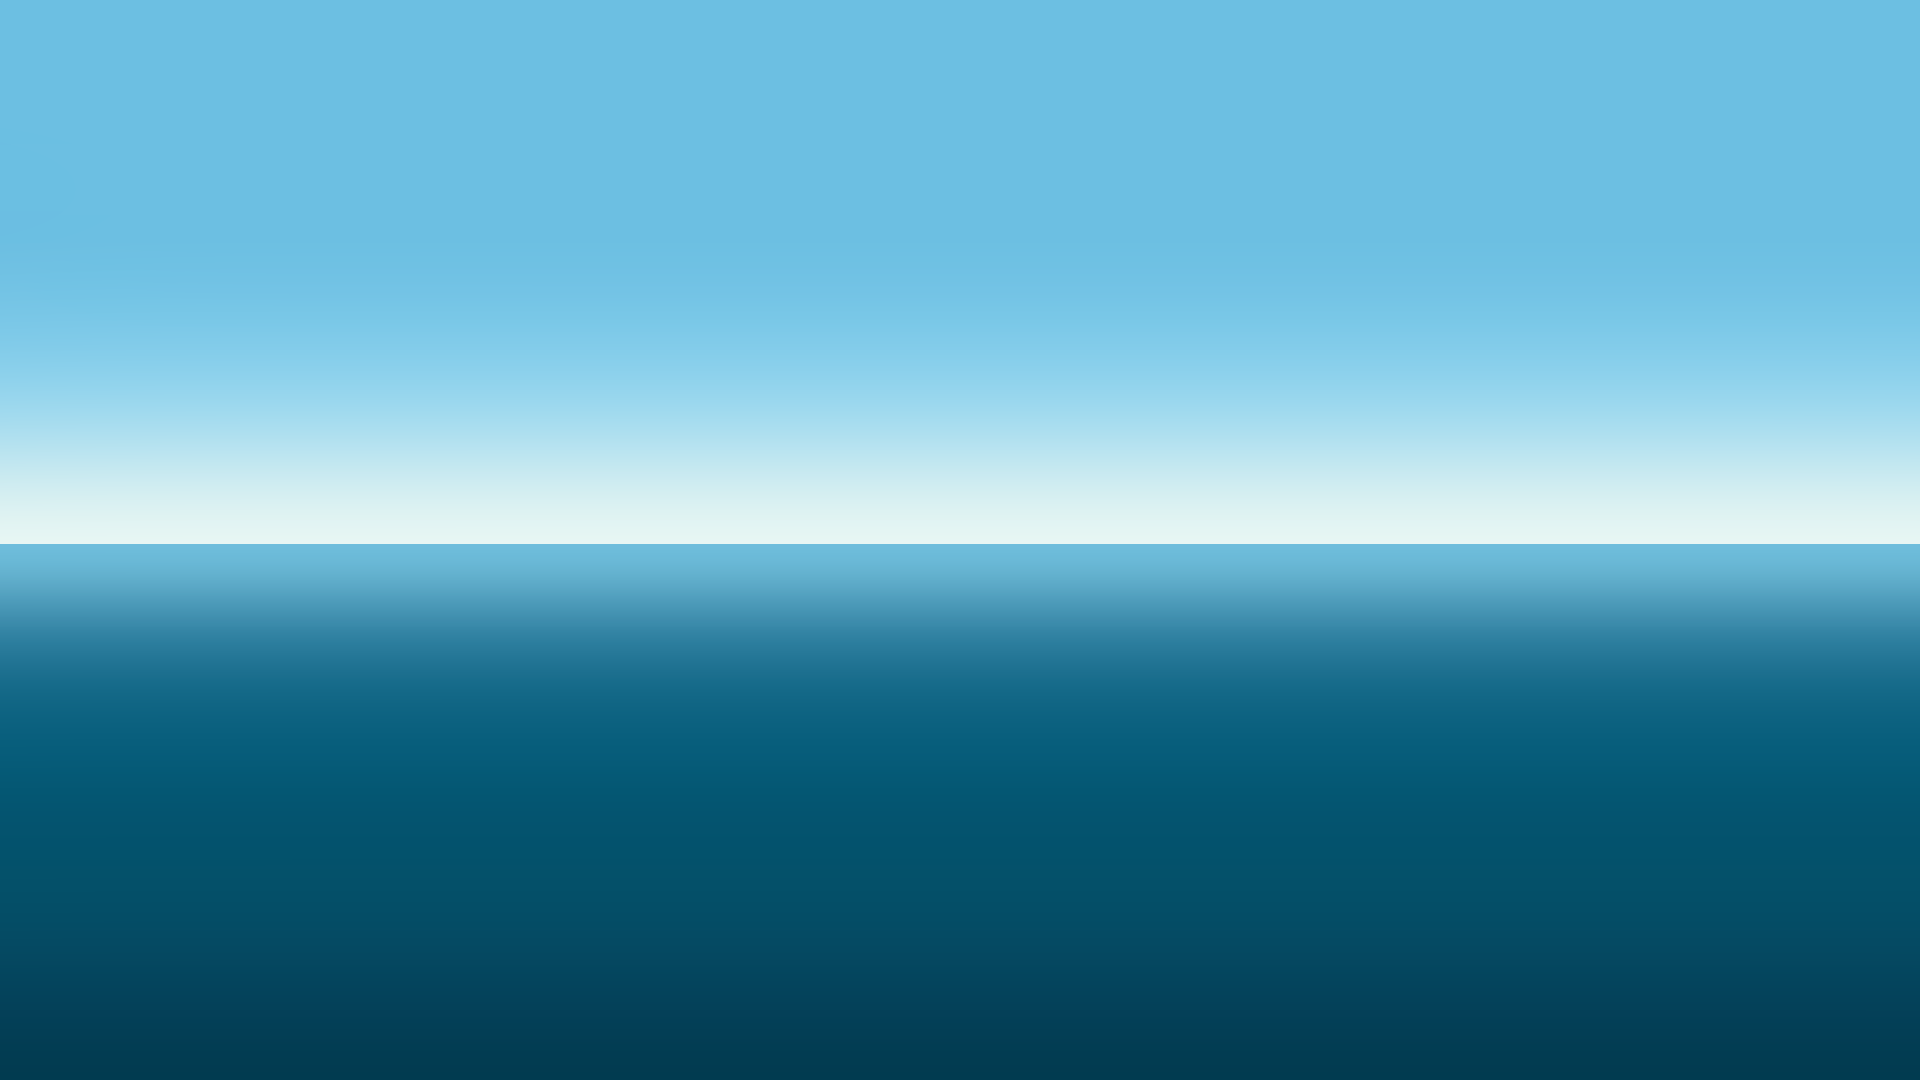
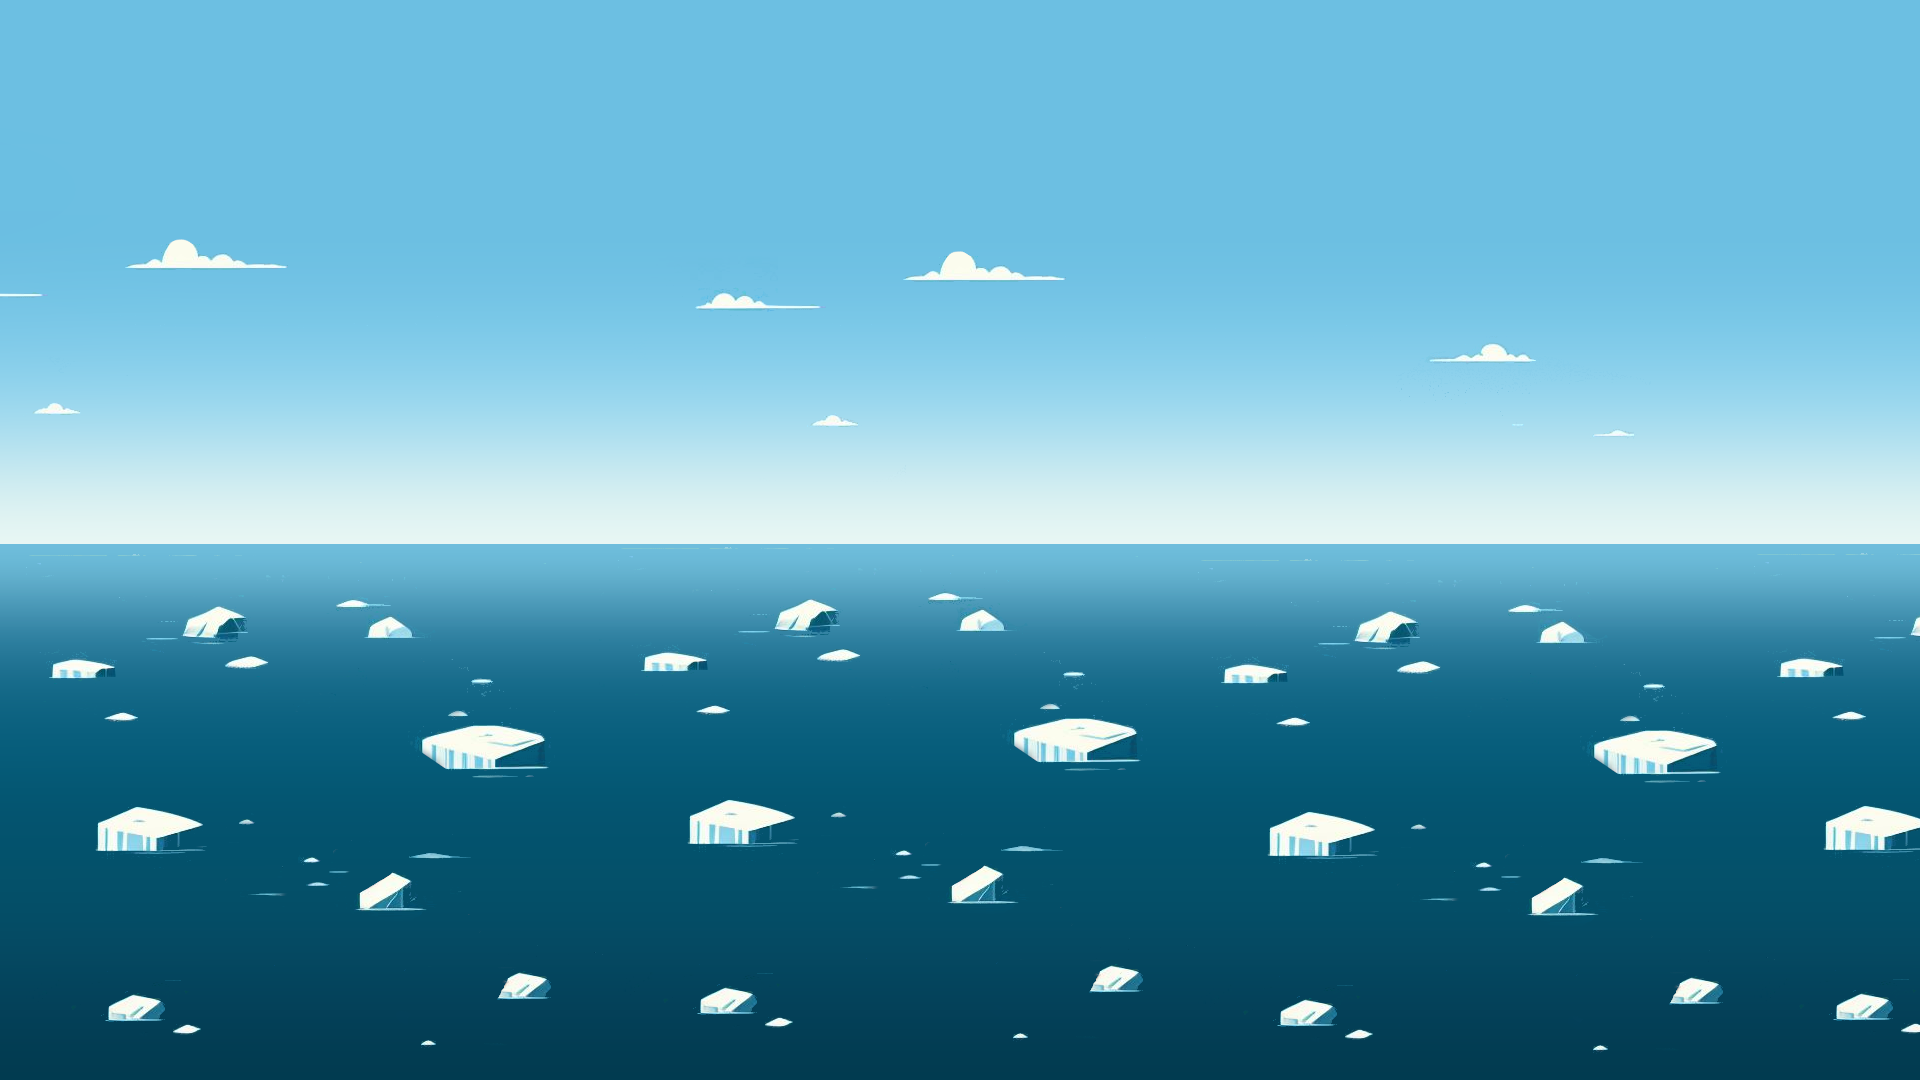
Add background, make world larger, add balloons

diff --git a/frontend/scripts/world.js b/frontend/scripts/world.js
@@ -1,5 +1,8 @@
 Bones.World = {
     init() {
+        this.width = 1920
+        this.height = 1080
+
         this.Physics = new Object()
         this.Physics.matterjs_engine = Matter.Engine.create();
         this.Physics.matterjs_world = this.Physics.matterjs_engine.world;
@@ -27,15 +30,17 @@ Bones.World = {
         //this.create_box_prop(400, 200, 80, 80)
         //this.create_box_prop(450, 50, 80, 20)
 
-        this.create_box_prop(Bones.Renderer.width / 2, -500, Bones.Renderer.width + 1000, 1000, anchored=true)
-        this.create_box_prop(Bones.Renderer.width / 2, Bones.Renderer.height + 500, Bones.Renderer.width + 1000, 1000, anchored=true)
-        this.create_box_prop(-500, Bones.Renderer.height / 2, 1000, Bones.Renderer.height + 1000, anchored=true)
-        this.create_box_prop(Bones.Renderer.width + 500, Bones.Renderer.height / 2, 1000, Bones.Renderer.height + 1000, anchored=true)
+        this.create_box_prop(1920 / 2, -500, 1920 + 1000, 1000, anchored=true)
+        this.create_box_prop(1920 / 2, 1080 + 500, 1920 + 1000, 1000, anchored=true)
+        this.create_box_prop(-500, 1080 / 2, 1000, 1080 + 1000, anchored=true)
+        this.create_box_prop(1920 + 500, 1080 / 2, 1000, 1080 + 1000, anchored=true)
 
         //npc init
 
         this.npcs = []
-        this.npcs.push(new this.NPC())
+        for (let i = 0; i < 20; i++) {
+            this.npcs.push(new this.NPC())
+        }
 
 
     }, // END FUNCTION init
@@ -50,8 +55,26 @@ Bones.World = {
         }
     },
     tick() {
+        let client_player = this.players[netplay_welcome_message] 
+        Bones.Renderer.camera_x = (client_player.x + client_player.width / 2 - Bones.Renderer.width / 2 + Bones.Renderer.camera_x * 19) / 20
+        Bones.Renderer.camera_y = (client_player.y + client_player.height / 2 - Bones.Renderer.height / 2 + Bones.Renderer.camera_y * 19) / 20
+        if (Bones.Renderer.camera_x > this.width - Bones.Renderer.width) {
+            Bones.Renderer.camera_x = this.width - Bones.Renderer.width
+        }
+        if (Bones.Renderer.camera_x < 0) {
+            Bones.Renderer.camera_x = 0
+        }
+        if (Bones.Renderer.camera_y > this.height - Bones.Renderer.height) {
+            Bones.Renderer.camera_y = this.height - Bones.Renderer.height
+        }
+        if (Bones.Renderer.camera_y < 0) {
+            Bones.Renderer.camera_y = 0
+        }
+
+        Bones.Renderer.context.drawImage(Bones.Assets.gfx_ice_background, -Bones.Renderer.camera_x, -Bones.Renderer.camera_y, 1920, 1080)
+
         Bones.Renderer.context.font = "18px Monospace";
-        Bones.Renderer.context.fillStyle = "Gray";
+        Bones.Renderer.context.fillStyle = "Black";
         Bones.Renderer.context.textAlign = "center";
         Bones.Renderer.context.fillText("Bones \"Alpha\" v0.0.9 - user id: " + netplay_welcome_message + ' - user is host: ' + netplay_user_is_host, Bones.Renderer.canvas.width / 2, 20)
 
@@ -384,6 +407,8 @@ Bones.Renderer.context.font = "18px Monospace";
             this.movement_speed = 1;
             this.x = 25;
             this.y = 0;
+            this.width = 150;
+            this.height = 150;
             this.x_vel = 0;
             this.y_vel = 0;
             this.max_x_vel = 7
@@ -516,8 +541,8 @@ Bones.Renderer.context.font = "18px Monospace";
                 this.x = 0
                 this.x_vel = 0
             }
-            if (this.x > Bones.Renderer.width - 150) {
-                this.x = Bones.Renderer.width - 150
+            if (this.x > Bones.World.width - 150) {
+                this.x = Bones.World.width - 150
                 this.x_vel = 0
             }
             if (this.y < 0) {
@@ -527,8 +552,8 @@ Bones.Renderer.context.font = "18px Monospace";
                     this.y_vel = 0
                 }
             }
-            if (this.y > Bones.Renderer.height - 150) {
-                this.y = Bones.Renderer.height - 150
+            if (this.y > Bones.World.height - 150) {
+                this.y = Bones.World.height - 150
                 this.y_vel = 0
                 this.on_ground = true
             }

diff --git a/frontend/scripts/assets.js b/frontend/scripts/assets.js
@@ -1,12 +1,28 @@
 Bones.Assets = {
     init: function(){
         this.gfx_player = new Image();
-        this.gfx_ball = new Image();
         this.gfx_player.src = "../assets/asset2.png";
+
+        this.gfx_ball = new Image();
         this.gfx_ball.src = "../assets/asset1.png";
 
         this.gfx_balloon_sheet = new Image();
         this.gfx_balloon_sheet.src = "../assets/balloon_sheet.png";
+
+        this.gfx_ice_background = new Image();
+        this.gfx_ice_background.src = "../assets/ice-field-background.png";
+
+        this.gfx_man_standing = new Image();
+        this.gfx_man_standing.src = "../assets/openmoji/man-standing.svg";
+
+        this.gfx_man_walking = new Image();
+        this.gfx_man_walking.src = "../assets/openmoji/man-walking.svg";
+
+        this.gfx_man_running = new Image();
+        this.gfx_man_running.src = "../assets/openmoji/man-running.svg";
+
+        this.gfx_man_dancing = new Image();
+        this.gfx_man_dancing.src = "../assets/openmoji/man-dancing.svg";
     }
 }
 Bones.Assets.init()
